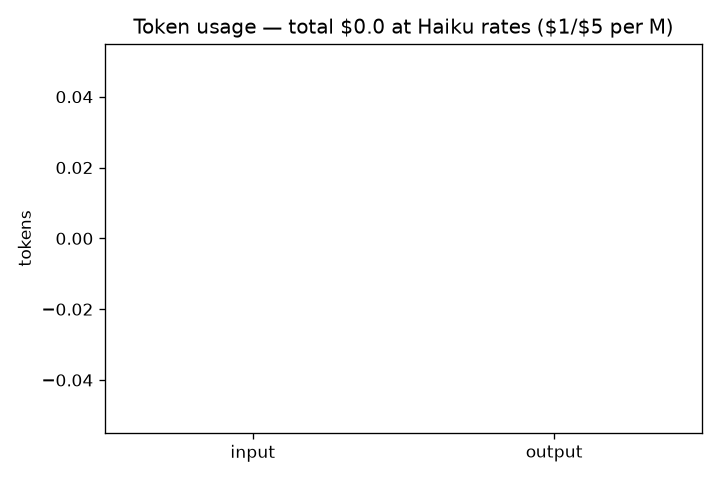
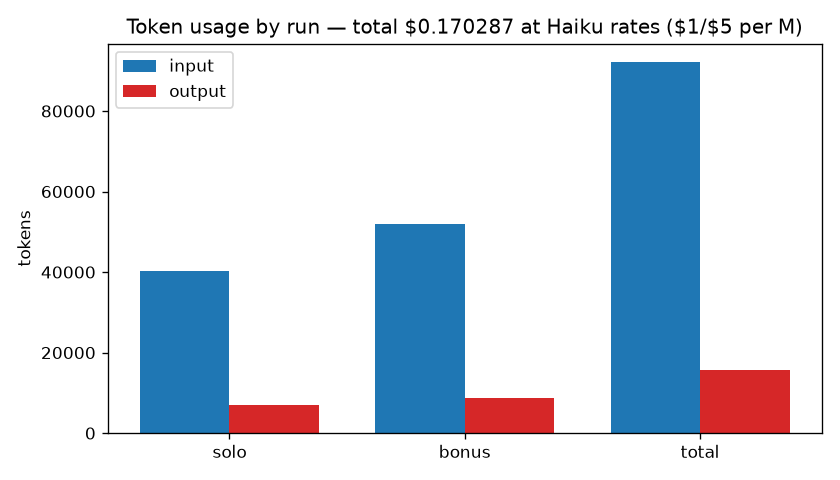
docs: cost analysis + sync solo-email status + fix notebook cost cell
rubric §10 + narrative accuracy. No code logic, engine, or report_bonus.json touched.

1) Narrative sync — the solo internal report WAS emailed live (Gmail message_id
   19effc1704daaae3, sent:true). Corrected the stale "Gmail timed out / dry-run only"
   claims with dated banners; historical text preserved:
   - _build/PROGRESS_LOG.md (note struck through + UPDATE)
   - _build/MORNING_BRIEF.md (banner extended; Phase-11 item #2 marked done)
   - README.md (Submission status: both reports emailed, message_ids listed)

2) docs/COST_ANALYSIS.md (new) — summary table from real summary.json numbers
   (solo 298 calls $0.0745 + host-bonus 386 calls $0.0957 = 684 calls, $0.170287),
   optimization strategies, and the honest note that the interop match used
   deterministic templates (no LLM, $0); NL-over-LLM is shown in the solo run.

3) Notebook cost cell fixed — it read the trimmed events.jsonl (no api_call records)
   and printed zeros. Now reads each run's summary.json; re-executed end-to-end so
   the output shows the real $0.170287 total. token_cost.png regenerated.

diff --git a/scripts/build_notebook.py b/scripts/build_notebook.py
@@ -78,14 +78,24 @@ plt.title("Observation sensitivity: vision_radius (5x5)"); plt.grid(alpha=0.3)
 plt.tight_layout(); plt.savefig(ASSETS / "vision_coverage.png", dpi=120); plt.show()
 """
 
-COST = """from robocop_mcp.reporting.summary import token_cost
-ev = ROOT / "results" / "solo_demo" / "events.jsonl"
-ev = ev if ev.exists() else ROOT / "logs" / "events.jsonl"
-cost = token_cost(ev); print(cost)
-fig, ax = plt.subplots(figsize=(6, 4))
-ax.bar(["input", "output"], [cost["input_tokens"], cost["output_tokens"]],
-       color=["#1f77b4", "#d62728"]); ax.set_ylabel("tokens")
-ax.set_title(f"Token usage — total ${cost['cost_usd']} at Haiku rates ($1/$5 per M)")
+COST = """import json
+# Real per-run costs live in each run's summary.json. WHY not events.jsonl: the
+# committed event stream is trimmed and omits the api_call token records, so mining
+# it would under-count to zero — summary.json is the authoritative cost source. §10.
+def _cost(name):
+    return json.loads((ROOT / "results" / name / "summary.json").read_text())["cost"]
+solo, bonus = _cost("solo_demo"), _cost("bonus_demo")
+total = {k: round(solo[k] + bonus[k], 6) for k in solo}
+print("solo :", solo); print("bonus:", bonus); print("total:", total)
+runs = ["solo", "bonus", "total"]
+ins = [solo["input_tokens"], bonus["input_tokens"], total["input_tokens"]]
+outs = [solo["output_tokens"], bonus["output_tokens"], total["output_tokens"]]
+x = np.arange(len(runs)); w = 0.38
+fig, ax = plt.subplots(figsize=(7, 4))
+ax.bar(x - w / 2, ins, w, label="input", color="#1f77b4")
+ax.bar(x + w / 2, outs, w, label="output", color="#d62728")
+ax.set_xticks(x); ax.set_xticklabels(runs); ax.set_ylabel("tokens"); ax.legend()
+ax.set_title(f"Token usage by run — total ${total['cost_usd']} at Haiku rates ($1/$5 per M)")
 plt.tight_layout(); plt.savefig(ASSETS / "token_cost.png", dpi=120); plt.show()
 """
 

diff --git a/docs/COST_ANALYSIS.md b/docs/COST_ANALYSIS.md
@@ -1,0 +1,67 @@
+# Cost & Token Analysis (rubric §10)
+
+**Model:** `claude-haiku-4-5-20251001` (Anthropic) for all natural-language generation
+and interpretation. **Pricing used:** Haiku list rate **$1.00 / 1M input tokens**,
+**$5.00 / 1M output tokens** (`src/robocop_mcp/reporting/summary.py:HAIKU_RATES`).
+
+All token counts are measured, not estimated: the API Gatekeeper records
+`input_tokens` / `output_tokens` on **every** call
+(`shared/gatekeeper.py` → `_usage()` → `api_call` event), and each run's
+`results/<run>/summary.json` aggregates them via `reporting/summary.py:token_cost`.
+
+## Summary table — all runs that used the LLM
+
+| Run | Model | #Calls | Input tokens | Output tokens | Cost (USD) | Source |
+| --- | --- | ---: | ---: | ---: | ---: | --- |
+| Solo series (6 sub-games, partial-obs, bluffing) | Haiku | 298 | 40,175 | 6,873 | **$0.074540** | `results/solo_demo/summary.json` |
+| Host-bonus demo (truthful, full-vis, 6 sub-games) | Haiku | 386 | 51,967 | 8,756 | **$0.095747** | `results/bonus_demo/summary.json` |
+| Inter-team bonus match vs vm__fabi | — (none) | 0 | 0 | 0 | **$0.000000** | see note below |
+| **TOTAL** | | **684** | **92,142** | **15,629** | **$0.170287** | |
+
+Cross-check: `92,142 / 1e6 × $1` + `15,629 / 1e6 × $5` = `$0.092142 + $0.078145` = **$0.170287**.
+
+### Note — the inter-team bonus match used $0 in tokens
+
+The P2P interop agent (`src/robocop_mcp/interop/`) phrases and parses moves with a
+**deterministic translator** (`translation.py`, longest-match direction parsing), **not**
+an LLM — it imports neither `anthropic` nor the gatekeeper. So the live match against
+team **vm__fabi** made **zero** model calls and cost **$0**. This is an honest limitation:
+**free natural-language-over-LLM communication is demonstrated in the solo run**
+(`results/solo_demo/transcript.md`, with the Thief actively bluffing — e.g. "heading to
+the docks" while moving elsewhere), where real Haiku both generates and interprets the
+messages. The interop match satisfies the bonus protocol (commit-reveal, exact ruleset
+hash, mutual report-hash agreement) but exchanges templated NL rather than LLM-authored NL.
+
+## Per-turn economics
+
+- Solo: 298 calls over 6 sub-games ≈ **~50 calls/sub-game** (message generation +
+  interpretation + negotiation), averaging **~135 input / ~23 output tokens per call**.
+- Messages are intentionally short (a single move intent + a brief observation), which is
+  why output tokens are ~6× smaller than input tokens and the whole 6-game series costs
+  **under 8 cents**.
+
+## Optimization strategies (what the project actually does)
+
+1. **Model choice — Haiku, not Opus/Sonnet.** Language + negotiation are short,
+   low-reasoning tasks (describe a move, parse an opponent line). Haiku's list price is a
+   fraction of Opus's; at 684 calls the whole project costs **$0.17** instead of dollars.
+   Locked in config, not code (`config/config.json` → `llm.model`).
+2. **Movement is deterministic, not LLM-driven.** The Q-table chooses *where* to move;
+   the LLM only handles *language* (SPEC §5: "language and movement don't fight"). This
+   removes an entire class of expensive reasoning calls — strategy costs $0 in tokens.
+3. **Bounded interaction length.** `max_moves = 25` per sub-game and `num_games = 6` cap
+   the number of turns (and therefore calls) deterministically, so cost can never run away
+   (`config/config.json`). Negotiation also concedes after `max_rounds` — no infinite back-and-forth.
+4. **Gatekeeper throttling + queue.** All calls pass through `ApiGatekeeper`
+   (rate-limit → FIFO queue on overflow → bounded retries), preventing burst over-use and
+   making spend observable (`config/rate_limits.json`, versioned).
+5. **Templated fallback on timeout.** `LanguageEngine` falls back to a templated message if
+   a call times out, so a stalled API call never triggers retries-to-infinity.
+6. **Trimmed, regenerable logs.** Token accounting is summarized into `summary.json`; the
+   raw `events.jsonl` committed for evidence is trimmed to keep the repo light.
+
+## Budget projection at scale
+
+At the measured rate (~$0.085 per 6-sub-game series with full Haiku NL), running, e.g.,
+**100 inter-team series** with LLM phrasing enabled would cost roughly **$8.50** in tokens —
+still negligible, confirming Haiku is the right cost/benefit choice for this workload.

diff --git a/README.md b/README.md
@@ -96,10 +96,17 @@ URLs, so the same code runs locally or against another team's servers for the bo
 
 A full **negotiated 6-sub-game series with real Haiku** (`scripts/run_demo.py`) produces the
 artifacts under `results/solo_demo/` (solo profile) and `results/bonus_demo/` (bonus profile)
-— transcript, negotiation, board PNGs, run summary, and the dry-run report — at a few cents
+— transcript, negotiation, board PNGs, run summary, and the JSON report — at a few cents
 total (tokens logged). With **varied per-sub-game starts** the six games now genuinely differ
 (distinct trajectories, and a mix of cop and thief wins) instead of the same game replayed
 six times. The `bonus_demo` transcript shows **truthful** messages under full visibility.
+
+**Submission status (both reports emailed live to `[email redacted]`):**
+- **Solo internal report** — sent via Gmail OAuth (`scripts/send_report.py`), message_id
+  `19effc1704daaae3`.
+- **Inter-team bonus match vs `vm__fabi`** — completed (6 sub-games, **75–75 draw**,
+  `mutual_agreement=true`, agreed report hash `393b81f3…`); both teams emailed the identical
+  JSON (ours `19f015becb6345fb`, theirs `19f015dc2970c0e8`). Full evidence in `results/interop/`.
 
 | Learning curves | Q vs heuristic | Parameter sensitivity |
 | --- | --- | --- |
@@ -114,7 +121,8 @@ six times. The `bonus_demo` transcript shows **truthful** messages under full vi
   boards; capture takes longer.
 - Exploration **ε ≈ 0.2** is optimal; barriers and higher **γ** favour the Cop.
 - Larger `vision_radius` raises observability, reducing reliance on the language channel.
-- API cost is **near-zero** (Haiku, ~150 tokens/turn) — see the token-cost figure.
+- API cost is **near-zero**: the full solo + host-bonus runs total **$0.17** (684 Haiku calls,
+  92k in / 16k out tokens) — see the token-cost figure and `docs/COST_ANALYSIS.md`.
 
 **Proof of real MCP communication** — a slice of `results/solo_demo/events.jsonl`
 (244 `tool_call`, 54 `state`, 48 `turn` events for one series):

diff --git a/_build/MORNING_BRIEF.md b/_build/MORNING_BRIEF.md
@@ -7,8 +7,10 @@
[1 lines of base64/hex data omitted]
 > (`mutual_agreement=true`), both teams emailed the report (ours `19f015becb6345fb`, theirs
 > `19f015dc2970c0e8`). The "Cloud deploy + run the bonus match" hand-off below is **DONE** —
-> see `results/interop/` and `_build/INTEROP_STATUS.md` for full evidence. The text below
-> records the pre-match state.
+> see `results/interop/` and `_build/INTEROP_STATUS.md` for full evidence.
+> **Also DONE: the solo internal report was emailed live** via Gmail OAuth
+> (`scripts/send_report.py`, dry_run=False) — message_id `19effc1704daaae3`, `sent: true`
+> (resolves Phase-11 item #2 below). The text below records the pre-send state.
 
 ---
 

diff --git a/_build/PROGRESS_LOG.md b/_build/PROGRESS_LOG.md
@@ -48,8 +48,10 @@ adaptations + bit-exact items) — written in PRIORITY 3.
 
 **Gate:** ruff 0; **203 passed**; **coverage 91.6%**; all files ≤ 150 LOC. Solo/bonus untouched.
 
-**Note:** Gmail live send timed out waiting on browser consent (no token.json); infra ready,
-re-run `scripts/send_report.py` and complete consent. (Separate from interop.)
+**Note:** ~~Gmail live send timed out waiting on browser consent (no token.json); infra ready,
+re-run `scripts/send_report.py` and complete consent.~~ **UPDATE 2026-06-26: RESOLVED — the solo
+internal report WAS sent live via Gmail (`scripts/send_report.py`, dry_run=False); Gmail
+message_id `19effc1704daaae3`, `sent: true`.** (Separate from interop.)
 
 **Done (interop finalize — gated, never auto-send)**
 - `interop/finalize.py`: after 6 sub-games, build `results/interop/report_bonus.json`